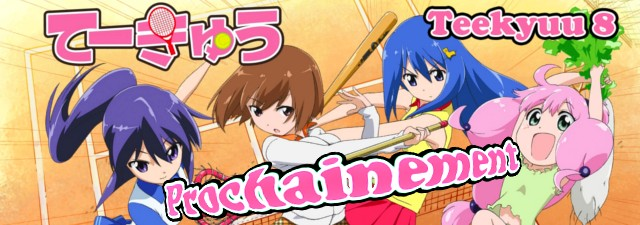
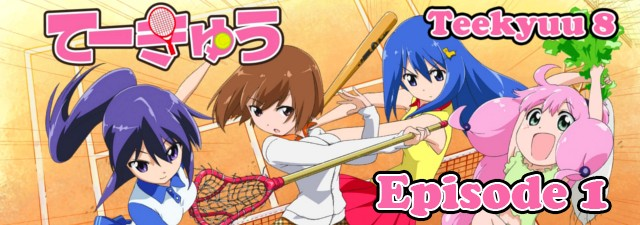
new release+slider update+remove announcement

Changed region(s): [[0.25, 0.5911, 0.9688, 0.9956]]

diff --git a/2016-10-13.html b/2016-10-13.html
@@ -1,7 +1,7 @@
-<!DOCTYPE html>
+<!DOCTYPE html>
 <html lang="fr-FR">
 	<head>
-		<title>Teekyuu Saison 8 | Nobluesky Fansub</title>
+		<title>Teekyuu Saison 8 Ep 1 vostfr | Nobluesky Fansub</title>
 		<meta charset="utf-8" />
 		<link rel="Shortcut Icon" type="image/x-icon" href="favicon.ico" />
 		<link href="fonts/fonts.css" rel="stylesheet" type="text/css" />
@@ -36,21 +36,38 @@
 	<div id="article">
 		<div id="content">
 			<div class="post">
-				<h1 class="title">Teekyuu Saison 8</h1>
-				<div style="clear: both;">&nbsp;</div>
+				<h1 class="title">Teekyuu Saison 8 Ep 1 vostfr</h1>
+				<p class="meta"><span class="date">13 Octobre 2016</span><span class="posted">Posté par <a href="about.html#nobluesky">Nobluesky</a></span></p>
 				<div style="clear: both;">&nbsp;</div>
 				<div class="entry">
-					<img class="post-images" src="images/2016/teekyuu8.jpg" alt="" />
-					<p>12 épisodes de 2 min, Octobre 2016</p>
-					<p>Suite de la Saison 7</p>
-					<p>Nous suivons le quotidien de quatre lycéennes membres du club de tennis. Un quotidien... pour le moins peu ordinaire!</p>
-					<p>Au secours !! Les revoilà, appelez les blouses blanches !</p>
+					<img class="post-images" src="images/2016/news27.jpg" alt="" />
+					<p>Bonjour,</p>
+					<p>J'espère que votre année professionnelle ou scolaire commence bien.</p>
+					<p>On revient en ce temps des momiji (bon, les feuilles sont encore vertes par ici^^) avec la saison 8 tant désirée de Teekyuu !</p>
+					<p>Cette fois c'est du lourd, deux minutes bien chargées en rigolade. Espérons que toute la saison soit aussi bonne.</p>
+					<p>Et je me consacre bien entendu à Sohryuden entre <strike>deux accès de flemmite aigüe</strike> les moments de boulot, et je devrais avoir fini dans trois ans à peu près.</p>
+					<p>Voilà, mata ne !</p>
+					<p>PS : Toi aussi t'aimes le gluten ? Pas comme Djokovic x)</p>
 					<h3>Téléchargements et streaming</h3>
-					Episode 01 : 
 					<p class="links dl"><a href="http://jheberg.net/captcha/tks8-01/" class="button-dl">Jheberg</a></p>&nbsp; | &nbsp;
 					<p class="links dl"><a href="https://rutube.ru/video/c1aaf138c5a9d2c63287ec216d76f8ee/" class="button-dl">Rutube</a></p>&nbsp; | &nbsp;
 					<p class="links dl"><a href="https://mega.nz/#!HQFyCZxD!9WQJQ26j5oVKJWCESkNaFKMS9eJAjuusXEtxCDgNV9Y" class="button-dl">Mega</a></p>&nbsp; | &nbsp;
 					<p class="links dl"><a href="https://openload.co/f/qJRep0zBm_8/%5BNobluesub%5D_Teekyuu_S8_-_01_HD_%281280x720_x264%29.mp4" class="button-dl">Openload</a></p>
+					<h3>Commentaires</h3>
+					<div id="disqus_thread"></div>
+					<script type="text/javascript">
+						/* * * CONFIGURATION VARIABLES: EDIT BEFORE PASTING INTO YOUR WEBPAGE * * */
+						var disqus_shortname = 'noblueskyfansub'; // required: replace example with your forum shortname
+
+						/* * * DON'T EDIT BELOW THIS LINE * * */
+						(function() {
+							var dsq = document.createElement('script'); dsq.type = 'text/javascript'; dsq.async = true;
+							dsq.src = '//' + disqus_shortname + '.disqus.com/embed.js';
+							(document.getElementsByTagName('head')[0] || document.getElementsByTagName('body')[0]).appendChild(dsq);
+						})();
+					</script>
+					<noscript>Activez javascript pour voir les commentaires.</noscript>
+					<a href="http://disqus.com" class="dsq-brlink">commentaires propulsés par <span class="logo-disqus">Disqus</span></a>
 				</div>
 			</div>
 			<div style="clear: both;">&nbsp;</div>

diff --git a/index.html b/index.html
@@ -1,4 +1,4 @@
-<!DOCTYPE html>
+<!DOCTYPE html>
 <html lang="fr-FR">
 	<head>
 		<title>Nobluesky Fansub</title>
@@ -35,7 +35,7 @@
 	<div class="slider-wrapper theme-default">
 		<div class="ribbon"></div>
 		<div id="slider" class="nivoSlider">
-			<a href="teekyuu7.html"><img src="images/img02.jpg" alt="" /></a><a href="2016-09-01.html"><img src="images/img01.jpg" alt="" /></a><img src="images/img03.jpg" alt="" />
+			<a href="2016-10-13.html"><img src="images/img02.jpg" alt="" /></a><a href="sohryuden.html"><img src="images/img01.jpg" alt="" /></a>
 		</div>
 	</div>
 <script type="text/javascript">
@@ -58,7 +58,21 @@
 			<div id="annonce">
 				<div style="clear: both;">&nbsp;</div>
 				<div class="entry">
-					<p>Nouvelle Tchatbox en beta, <a href="http://tchat-mteam.ddns.net/" alt="Chatbox beta" >venez régulièrement ici</a><br> pour nous aider à la tester !</p>
+					<p>Bienvenue sur le site de la Nobluesky Fansub !</p>
+				</div>
+			</div>
+			<div class="post">
+				<h1 class="title"><a href="2016-10-13.html">Teekyuu Saison 8 Ep 1 vostfr</a></h1>
+				<p class="meta"><span class="date">13 Octobre 2016</span><span class="posted">Posté par <a href="about.html#nobluesky">Nobluesky</a></span></p>
+				<p><a href="http://nobluesub.com/2016-10-13.html#disqus_thread">Commentaires</a></p>
+				<div style="clear: both;">&nbsp;</div>
+				<div class="entry">
+					<img class="post-images" src="images/2016/news27.jpg" alt="" />
+					<p>Bonjour,</p>
+					<p>J'espère que votre année professionnelle ou scolaire commence bien.</p>
+					<p>On revient en ce temps des momiji (bon, les feuilles sont encore vertes par ici^^) avec la saison 8 tant désirée de Teekyuu !</p>
+					<p>Cette fois c'est du lourd, deux minutes bien chargées en rigolade. Espérons que...</p>
+					<p class="links"><a href="2016-10-13.html" class="button">Lire la suite</a></p>
 				</div>
 			</div>
 			<div class="post">
@@ -114,19 +128,6 @@
 					<p>J'espère que l'été se passe bien pour vous. Avec les vacances, l'impatience monte pour retrouver l'épisode suivant, je peux le voir sur les stats des visites :P Et si en plus je suis à la bourre pile au moment plein de suspense... Gomen !</p>
 					<p>Bon, voici les évènements de l'après-course d'Allemagne...</p>
 					<p class="links"><a href="2016-07-21.html" class="button">Lire la suite</a></p>
-				</div>
-			</div>
-			<div class="post">
-				<h1 class="title"><a href="2016-06-26.html">Future GPX Cyber Formula BD 34 vostfr</a></h1>
-				<p class="meta"><span class="date">26 Juin 2016</span><span class="posted">Posté par <a href="about.html#nobluesky">Nobluesky</a></span></p>
-				<p><a href="http://nobluesub.com/2016-06-26.html#disqus_thread">Commentaires</a></p>
-				<div style="clear: both;">&nbsp;</div>
-				<div class="entry">
-					<img class="post-images" src="images/2016/news22.jpg" alt="" />
-					<p>Salut la compagnie !</p>
-					<p>Voici votre épisode ! Bon, je préviens tout de suite, ce sera trèès dur d'attendre le suivant, car la course est mouvementée cette fois. Il faut dire qu'un circuit un peu spécial se présente à nos héros.</p>
-					<p>C'est aussi le 1er épisode sur lequel...</p>
-					<p class="links"><a href="2016-06-26.html" class="button">Lire la suite</a></p>
 				</div>
 			</div>
 			<div id="button-page-wrapper">

diff --git a/page2.html b/page2.html
@@ -31,7 +31,7 @@
 	<div class="slider-wrapper theme-default">
 		<div class="ribbon"></div>
 		<div id="slider" class="nivoSlider">
-			<a href="teekyuu7.html"><img src="images/img02.jpg" alt="" /></a><a href="2016-09-01.html"><img src="images/img01.jpg" alt="" /></a><img src="images/img03.jpg" alt="" />
+			<a href="2016-10-13.html"><img src="images/img02.jpg" alt="" /></a><a href="sohryuden.html"><img src="images/img01.jpg" alt="" /></a>
 		</div>
 	</div>
 <script type="text/javascript">
@@ -50,6 +50,19 @@
 </div>
 	<div id="feed">
 		<div id="content">
+			<div class="post">
+				<h1 class="title"><a href="2016-06-26.html">Future GPX Cyber Formula BD 34 vostfr</a></h1>
+				<p class="meta"><span class="date">26 Juin 2016</span><span class="posted">Posté par <a href="about.html#nobluesky">Nobluesky</a></span></p>
+				<p><a href="http://nobluesub.com/2016-06-26.html#disqus_thread">Commentaires</a></p>
+				<div style="clear: both;">&nbsp;</div>
+				<div class="entry">
+					<img class="post-images" src="images/2016/news22.jpg" alt="" />
+					<p>Salut la compagnie !</p>
+					<p>Voici votre épisode ! Bon, je préviens tout de suite, ce sera trèès dur d'attendre le suivant, car la course est mouvementée cette fois. Il faut dire qu'un circuit un peu spécial se présente à nos héros.</p>
+					<p>C'est aussi le 1er épisode sur lequel...</p>
+					<p class="links"><a href="2016-06-26.html" class="button">Lire la suite</a></p>
+				</div>
+			</div>
 			<div class="post">
 				<h1 class="title"><a href="2016-06-16.html">Future GPX Cyber Formula BD 33 vostfr</a></h1>
 				<p class="meta"><span class="date">16 Juin 2016</span><span class="posted">Posté par <a href="about.html#nobluesky">Nobluesky</a></span></p>
@@ -101,18 +114,6 @@
 					<img class="post-images" src="images/2016/news18.jpg" alt="" />
 					<p>Vous êtes un peu "grammar nazi" sur les bords, vous tiquez toutes les deux lignes lorsque vous lisez les forums ou les commentaires des grands sites, ou bien vous vous désolez de voir qu'une énorme faute brise l'immersion en regardant votre épisode d'animé...</p>
 					<p class="links"><a href="2016-05-09_2.html" class="button">Lire la suite</a></p>
-				</div>
-			</div>
-			<div class="post">
-				<h1 class="title"><a href="2016-05-09.html">Future GPX Cyber Formula BD 31 vostfr</a></h1>
-				<p class="meta"><span class="date">9 Mai 2016</span><span class="posted">Posté par <a href="about.html#nobluesky">Nobluesky</a></span></p>
-				<p><a href="http://nobluesub.com/2016-05-09.html#disqus_thread">Commentaires</a></p>
-				<div style="clear: both;">&nbsp;</div>
-				<div class="entry">
-					<img class="post-images" src="images/2016/news17.jpg" alt="" />
-					<p>Bonjour à tous,</p>
-					<p>Nous voici repartis avec le camion volant (il me fait toujours délirer ce truc) pour suivre Hayato sur les pistes Africaines, ainsi que Shinjyo, qui rencontre quelques...</p>
-					<p class="links"><a href="2016-05-09.html" class="button">Lire la suite</a></p>
 				</div>
 			</div>
 			<div id="button-page-wrapper">

diff --git a/archives.html b/archives.html
@@ -46,6 +46,7 @@
 					<div>
 					<!-- here comes spoiler content -->
 					<div style="clear: both;">&nbsp;</div>
+					<p><a href="2016-05-09.html" target="_blank" >Future GPX Cyber Formula BD 31 vostfr</a></p>
 					<p><a href="2016-04-25.html" target="_blank" >Teekyuu Saison 7 Ep 5 à 8 vostfr</a></p>
 					<p><a href="2016-03-29.html" target="_blank" >Future GPX Cyber Formula BD 30 vostfr</a></p>
 					<p><a href="2016-03-19.html" target="_blank" >Teekyuu Saison 7 Ep 1 à 4 vostfr</a></p>

diff --git a/sidebar.html b/sidebar.html
@@ -34,9 +34,9 @@
 					<span style="width: 25%"></span>
 					</div>
 				</li>
-				<li>Teekyuu S8 EP01 : 50%
+				<li>Teekyuu S8 EP01 : 100%
 					<div class="progress-bar blue stripes" title="Progression" >
-					<span style="width: 50%"></span>
+					<span style="width: 100%"></span>
 					</div>
 				</li>
 			</ul>

diff --git a/menu.html b/menu.html
@@ -3,6 +3,7 @@
   <li class="menu-line"><a class="inactive" href="#">Projets en cours</a>
 	<ul id="en-cours">
 		<div id="en-cours">
+			<li class="menu-unfold"><a href="teekyuu8.html">Teekyuu Saison 8</a></li>
 			<li class="menu-unfold"><a href="sohryuden.html">Sohryuden</a></li>
 		</div>
 	</ul>

diff --git a/style.css b/style.css
@@ -190,7 +190,7 @@ a:hover {
 	border: 3px solid #ffffff;
 	background: #f1ede4;
 	border-radius: 4px;
-	/* display: none; */
+	display: none;
 }
 
 #annonce h1 {
